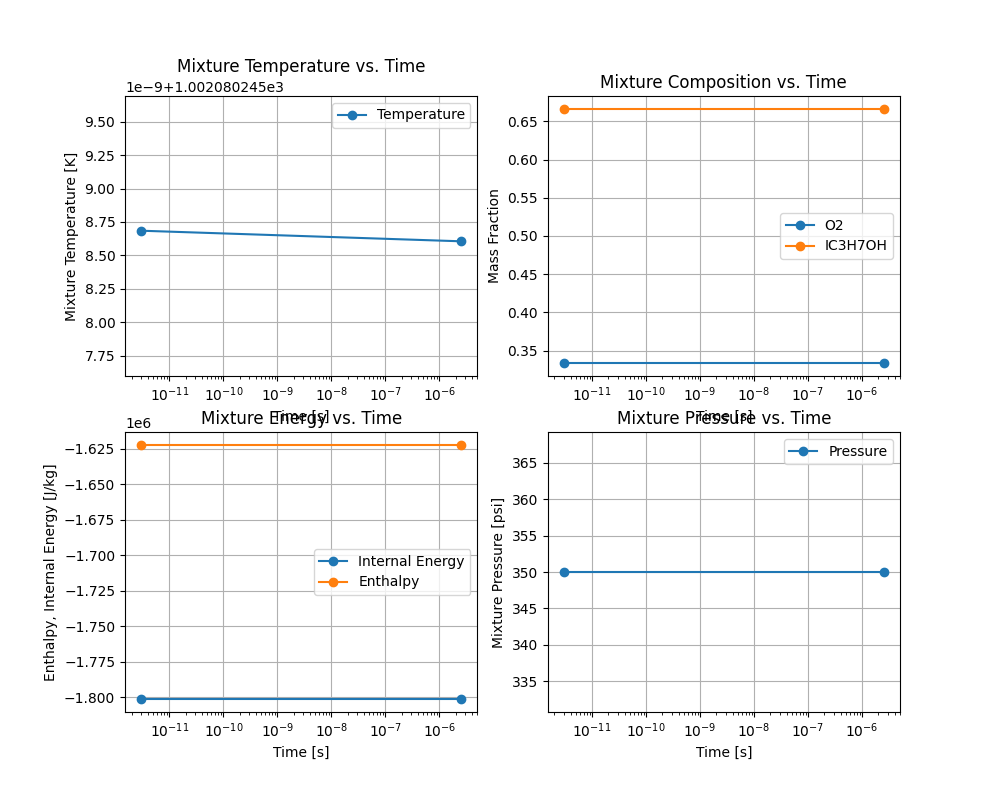
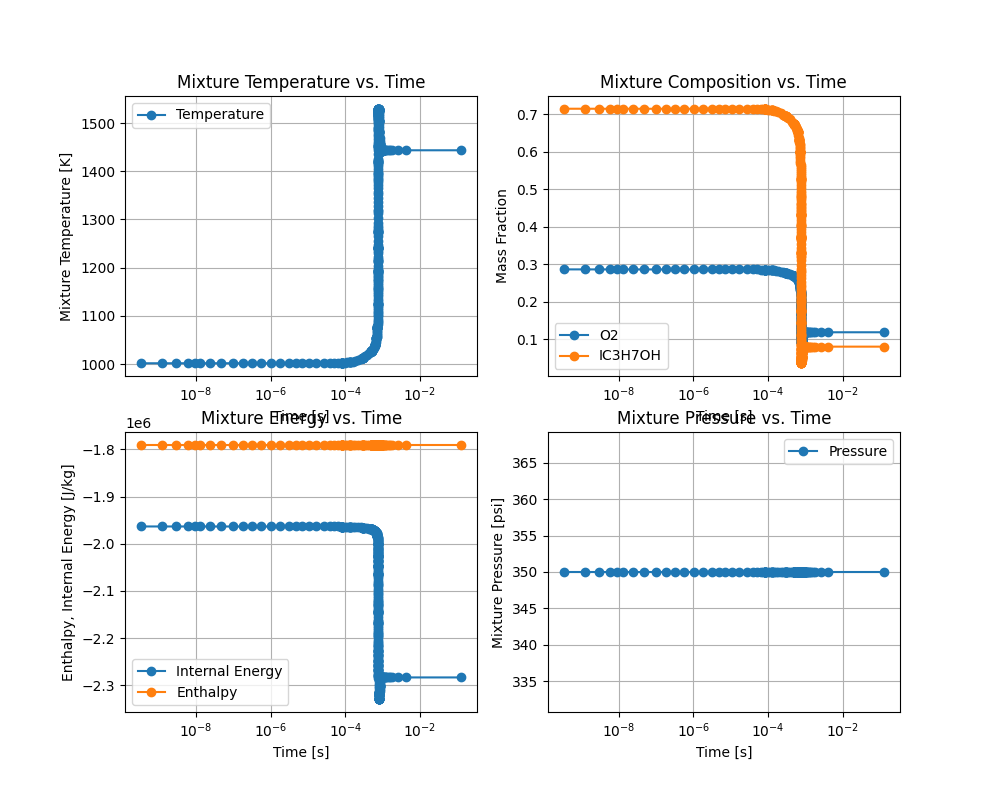
Fixed film cooling code

diff --git a/MARLIN V2/Tenkara/4 - Subteams/Gas Generator/Development/GG_filmcooling.py b/MARLIN V2/Tenkara/4 - Subteams/Gas Generator/Development/GG_filmcooling.py
@@ -13,18 +13,196 @@ import yaml
 from rocketcea.cea_obj import CEA_Obj
 import CoolProp as CP
 import os
+import math
+import matplotlib.pyplot as plt
 
-def_path = os.path.join(r'\MARLIN V2\Tenkara\4 - Subteams\Gas Generator\Inputs\GG_hardware_definitions.yaml')
+#######################################
+#Reading in Hardware Definition
+#######################################
+#def_path = os.path.join(r'\MARLIN V2\Tenkara\4 - Subteams\Gas Generator\Inputs\GG_hardware_definitions.yaml')
+#def_path = 'C:\Users\miles\OneDrive\Documents\GitHub\Turbopump\MARLIN V2\Tenkara\4 - Subteams\Gas Generator\Inputs\GG_hardware_definitions.yaml'
+script_dir = os.path.dirname(os.path.abspath(__file__))
+parent_dir = os.path.dirname(script_dir)  # Go up one level
+def_path = os.path.join(parent_dir, 'Inputs', 'GG_hardware_definition.yaml')
+print(def_path)
 config = yaml.safe_load(open(def_path, 'r'))
+#######################################
+# Function Definitions
+#######################################
+cea = CEA_Obj(config['GG_fuel_type'], config['GG_ox_type'], config['GG_fuel_type']) 
 
-def mdot(cda, pup, pdows, rho):
-    return cda * np.sqrt(2 * rho * (pup - pdows))
 
-def getCEA_h(Pc, OF):
-    cea = CEA_Obj(oxname = config['GG_ox_type'], fuelname = config['GG_fuel_type'])
-    H_list = cea.get_Enthalpies(Pc, OF,1, 0, 0)
-    return cea
+def mdot(cda, pup, Pc, rho):
+    #print(f'cda: {cda} pup: {pup} Pc: {Pc} rho: {rho}')
+    Pc = np.nan_to_num(Pc, nan=0.0)
+    Pc = 0 if Pc is None else Pc
+    mdot_out = cda * np.sqrt(2 * rho * max((pup - Pc),0))
+    return float(mdot_out)
+
+def UpdateCEA_Cp(Pc, mdot_ox, mdot_IPA):
+    OF = mdot_ox/max(mdot_IPA, 0.0000000001)
+    Cp = 4.1868 * cea.get_Chamber_Cp(Pc/psi2pa, OF, 1, 0)
+    return Cp
 
 def IPA_Cp_gas(T):
-    return config['cp_fuel_g_m'] * T + config['cp_fuel_g_b']
+    #Returns the Cp of IPA in kJ/kg K
+    #input is Kelvin
+    Cp = config['cp_fuel_g_m'] * T + config['cp_fuel_g_b']
+    return 1000 * Cp / IPA_MM
+#Feed Pressures
+
+def CEA_init_state(mdot_ox, mdot_ipa, Pc):
+    OF = mdot_ox/max(mdot_ipa, 0.0000000001)
+    Cp = 4.1868 * cea.get_Chamber_Cp(Pc/psi2pa, OF, 1,0)
+    #print(f'Initial state - OF: {OF}, Cp: {Cp}')
+    h = -2.326 * cea.get_Enthalpies(Pc/psi2pa, OF, 1, 0, 0)[0]
+    T = 0.555555 * cea.get_Tcomb(Pc/psi2pa, OF)
+    mass = mdot_ipa + mdot_ox
+    
+    H = mass * h
+    return [mass, H, T, Cp]
+
+def equilibrium(state1, state2):
+    M1, M2 = state1[0], state2[0]
+    H1, H2 = state1[1], state2[1]
+    T1, T2 = state1[2], state2[2]
+    Cp1, Cp2 = state1[3], state2[3]
+    Mf = M1+M2
+    Hf = H1+H2
+    Cp = (M1*Cp1 + M2*Cp2)/(M1+M2)
+    Tf = Hf/(Mf*Cp)
+    return [Mf, Hf, Tf, Cp]
+
+def Pc(LOx_feed, IPA_feed, Pc_in, pcA):
+    #Recursivly solves for chamber pressure
+    mdot_ox = mdot(config['LOx_Cda'],  LOx_feed, Pc_in, config['LOx_rho'])
+    mdot_ipa = mdot(config['fuel_Cda'], IPA_feed, Pc_in, config['IPA_rho'])
+    OF = mdot_ox/max(mdot_ipa, 0.000000000001)
+    #print(f'mdots {mdot_ox} and {mdot_ipa}')
+    cstar = 0.3048 * cea.get_Cstar(Pc_in/psi2pa, OF)
+    Pc_f = cstar * (mdot_ox+mdot_ipa) / config['stator_throat_area']
+    pcA.append(Pc_f)
+    #print(len(pcA))
+    #if len(pcA) == 500:
+       #plt.plot(pcA) 
+       #plt.show()
+       #plt.pause(1000)
+    if len(pcA) >= 1000:
+        raise RuntimeError("Pressure solver did not converge")
+    # d(error) / dt threshhold 
+    if abs(Pc_in-Pc_f) < 3000:
+        #plt.plot(pcA)
+        #plt.show()
+        return Pc_f
+    
+    else:
+        #print(f'CHamber pressure {Pc_f}')
+        error = Pc_f - Pc_in
+        new_Pc = Pc_in + 0.05 * error
+        return Pc(LOx_feed, IPA_feed, new_Pc, pcA)
+
+
+def Heat_addition(state1, E_in, flag = 0):
+    M1 = state1[0]
+    H1 = state1[1]
+    T1 = state1[2]
+    Cp1 = state1[3]
+    Tf =  T1 + (E_in)/(M1*Cp1)
+    
+    
+    return[M1, H1+E_in, Tf, Cp1]
+
+def IPA_satTemp(Pc):
+    Pc = Pc / 100000
+    A = 4.57795
+    B = 1221.423
+    C = -87.474
+    # Inverted Antoine equation solving for T in K
+    return (B / (A - math.log10(Pc))) - C
+
+#####################################
+# Variable Definition
+#####################################
+
+step_size = 0.1
+psi2pa = 6894.757
+# Feed pressures
+LOx_feed_pressure = 30000000     #pa
+IPA_feed_pressure = 30000000     #pa
+# IPA inlet temp
+IPA_temp = 298                   # K
+#IPA_H_mol = 318.2                # Enthalpy at 298K kJ/mol
+IPA_MM = 60.1                    # g/mol
+#IPA_H = 1000 * IPA_H_mol / IPA_MM# kJ/kg
+# Chamber Pressure
+Pc_guess = 24000000              #pa  
+Pc_array = []
+film_temp = []
+gas_temp = []
+
+##########################################
+# Define input states
+##########################################
+# Solve for chamber pressure
+Pc_in = Pc(LOx_feed_pressure, IPA_feed_pressure, Pc_guess, Pc_array)
+# Solve for mass flows into the chamber
+mdot_ox = mdot(config['LOx_Cda'], LOx_feed_pressure, Pc_in, config['LOx_rho'])
+mdot_IPA = mdot(config['fuel_Cda'], IPA_feed_pressure, Pc_in, config['IPA_rho'])
+mdot_film = mdot(config['film_Cda'], IPA_feed_pressure, Pc_in, config['IPA_rho'])
+print(f'core OF Ratio: {(mdot_ox/mdot_IPA):.3f}')
+print(f'Total OF Ratio: {(mdot_ox/(mdot_IPA + mdot_film)):.3f}')
+print(f'film cooling %: {100*(mdot_film / (mdot_film + mdot_ox+mdot_IPA)):.3f}')
+# Get combustion gas properties
+combustion_gas = CEA_init_state(mdot_ox, mdot_IPA, Pc_in)
+# Define film cooling initial properties
+Cp_IPA_l = 1000 * config['cp_IPA_l'] / IPA_MM             # 1000 * kJ/mol K * mol/ g = kJ/kg K
+film = [mdot_film, 0, IPA_temp, Cp_IPA_l]
+delta_T_init = abs(combustion_gas[2] - film[2])
+film_temp.append(film[2])
+gas_temp.append(combustion_gas[2])
+#####################################
+# Begin Simulation
+#####################################
+# subcooled liquid heating of the IPA
+T_dif = IPA_satTemp(Pc_in) - film[2]
+##print(f'Temperature difference: {T_dif:.3f} K')
+E_dif = T_dif * film[3] * film[0]
+#print(f'Energy difference: {E_dif:.3f} kJ')
+film = Heat_addition(film, E_dif)
+combustion_gas = Heat_addition(combustion_gas, -E_dif)
+film_temp.append(film[2])
+gas_temp.append(combustion_gas[2])
+# vaporization of the IPA
+E_vap = film[0] * (1000 * config['h_vap_IPA'] / IPA_MM)
+film[1] = film[1] + E_vap
+combustion_gas = Heat_addition(combustion_gas, -E_vap)
+film_temp.append(film[2])
+gas_temp.append(combustion_gas[2])
+film[3] = IPA_Cp_gas(film[2])
+step_num = 0
+while abs(film[2] - combustion_gas[2]) > 1 and step_num < 2000:
+    E_trans = 0.5 * step_size * (combustion_gas[2] - film[2])
+    #print(f'E_trans {E_trans:.3f}')
+    film = Heat_addition(film, E_trans)
+    combustion_gas = Heat_addition(combustion_gas, -E_trans)
+    film_temp.append(film[2])
+    gas_temp.append(combustion_gas[2])
+    film[3] = IPA_Cp_gas(film[2])
+    step_num += 1
+#print('flag 7')
+OutPut_gas = [film[0] + combustion_gas[0], film[1] + combustion_gas[1], film[2],
+               (film[0]*film[3]+combustion_gas[0]*combustion_gas[3])/(film[0]+combustion_gas[0])]
+
+plt.plot(film_temp)
+plt.plot(gas_temp)
+plt.legend(['film','combustion gas'])
+plt.grid()
+plt.show()
+
+print(f'Output mdot:  {OutPut_gas[0]:.3f} kg/s')
+print(f'Output Temp:  {OutPut_gas[2]:.3f} K')
+print(f'Chamber Pressure:  {Pc_in/psi2pa:.1f} psi')
+    
+    
+
 

diff --git a/MARLIN V2/Tenkara/4 - Subteams/Gas Generator/Development/GGIE_Refactored/GGIE.py b/MARLIN V2/Tenkara/4 - Subteams/Gas Generator/Development/GGIE_Refactored/GGIE.py
@@ -48,11 +48,12 @@ def chain_reaction_power(config, T_ign, mech_torch, fuel_torch, ox_torch, OF_tor
         h2_f_MCA = cp.CoolProp.PropsSI("H", "T", T_ign, "P", pc_MCA, MCA_fuel)
                                        
     else:
-        cp_fuel_MCA = config['cp_fuel']
-        h1_f_MCA = cp_fuel_MCA * T1_f
-        h2_f_MCA = cp_fuel_MCA * T_ign
-        #h1_f_MCA = config['h1_f']
-        #h2_f_MCA = config['h2_f']
+        # cp_fuel_MCA = config['cp_fuel']
+        # h1_f_MCA = cp_fuel_MCA * T1_f
+        # h2_f_MCA = cp_fuel_MCA * T_ign
+        h1_f_MCA = config['h1_f']
+        h2_f_MCA = config['h2_f']
+        
 
 
 

diff --git a/MARLIN V2/Tenkara/4 - Subteams/Gas Generator/Development/GGIE_Refactored/run.py b/MARLIN V2/Tenkara/4 - Subteams/Gas Generator/Development/GGIE_Refactored/run.py
@@ -103,7 +103,7 @@ cstar = cea.get_Cstar(Pc=Pc_main, MR=OF) * eta_cstar * FT2IN
 At = np.pi * (Dt/2)**2
 Vc = lstar * At
 ts = Vc * rho_main / mdot_main
-print(f"Stay Time [s]: {ts:0.5f}")
+print(f"Stay Time [s]: {ts}")
 
 # Well Stirred Reactor Model to Find AIT of Propellants for Chamber conditions:
 # Stay Time, Chamber Pressure, OF Ratio

diff --git a/MARLIN V2/Tenkara/4 - Subteams/Gas Generator/Development/GGIE_Refactored/WSR.py b/MARLIN V2/Tenkara/4 - Subteams/Gas Generator/Development/GGIE_Refactored/WSR.py
@@ -212,6 +212,8 @@ def Auto_Igntition_Temp(bisect_count, mdot, OF, residence_time, Pc, mech, prop_t
             e_low = e_mid
 
         e_min = e_high
+
+        
     toc = time.time()
     print(f"Bisection Search Completed in {toc-tic:0.2f}s\n")
     
